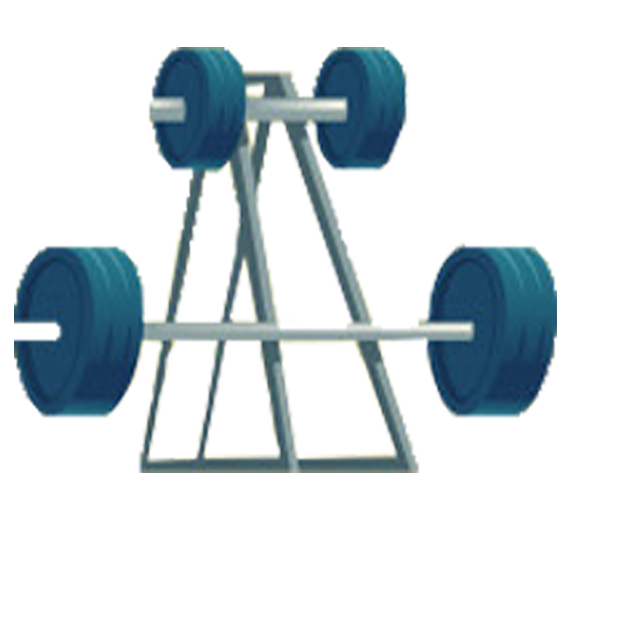
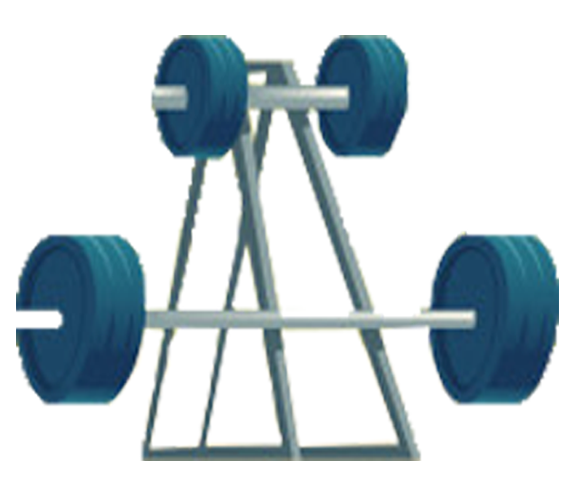
atualizado

diff --git a/ti/src/app/components/treinar/treinar.component.css b/ti/src/app/components/treinar/treinar.component.css
@@ -3,16 +3,26 @@
   min-height: 100vh;
   display: flex;
   background-size: 1920px 1080px;
-  position: relative;
+
 }
 
 .maq1{
   position: absolute;
-  top:46.5%;
-  left: 27.5%;
+  top:47.5%;
+  left: 27%;
   transition: all 0.7s ease;
 }
 .maq1:hover
+{
+  transform:scale(1.2);
+}
+.maq2{
+  position: absolute;
+  top:47.9%;
+  left: 69.5%;
+  transition: all 0.7s ease;
+}
+.maq2:hover
 {
   transform:scale(1.2);
 }

diff --git a/ti/src/app/components/treinar/treinar.component.html b/ti/src/app/components/treinar/treinar.component.html
@@ -1,2 +1,3 @@
 <div class="fundo"></div>
 <div class="maq1"> <img src="assets/img/maq1.png"></div>
+<div class="maq2"> <img src="assets/img/maq2.png"></div>
